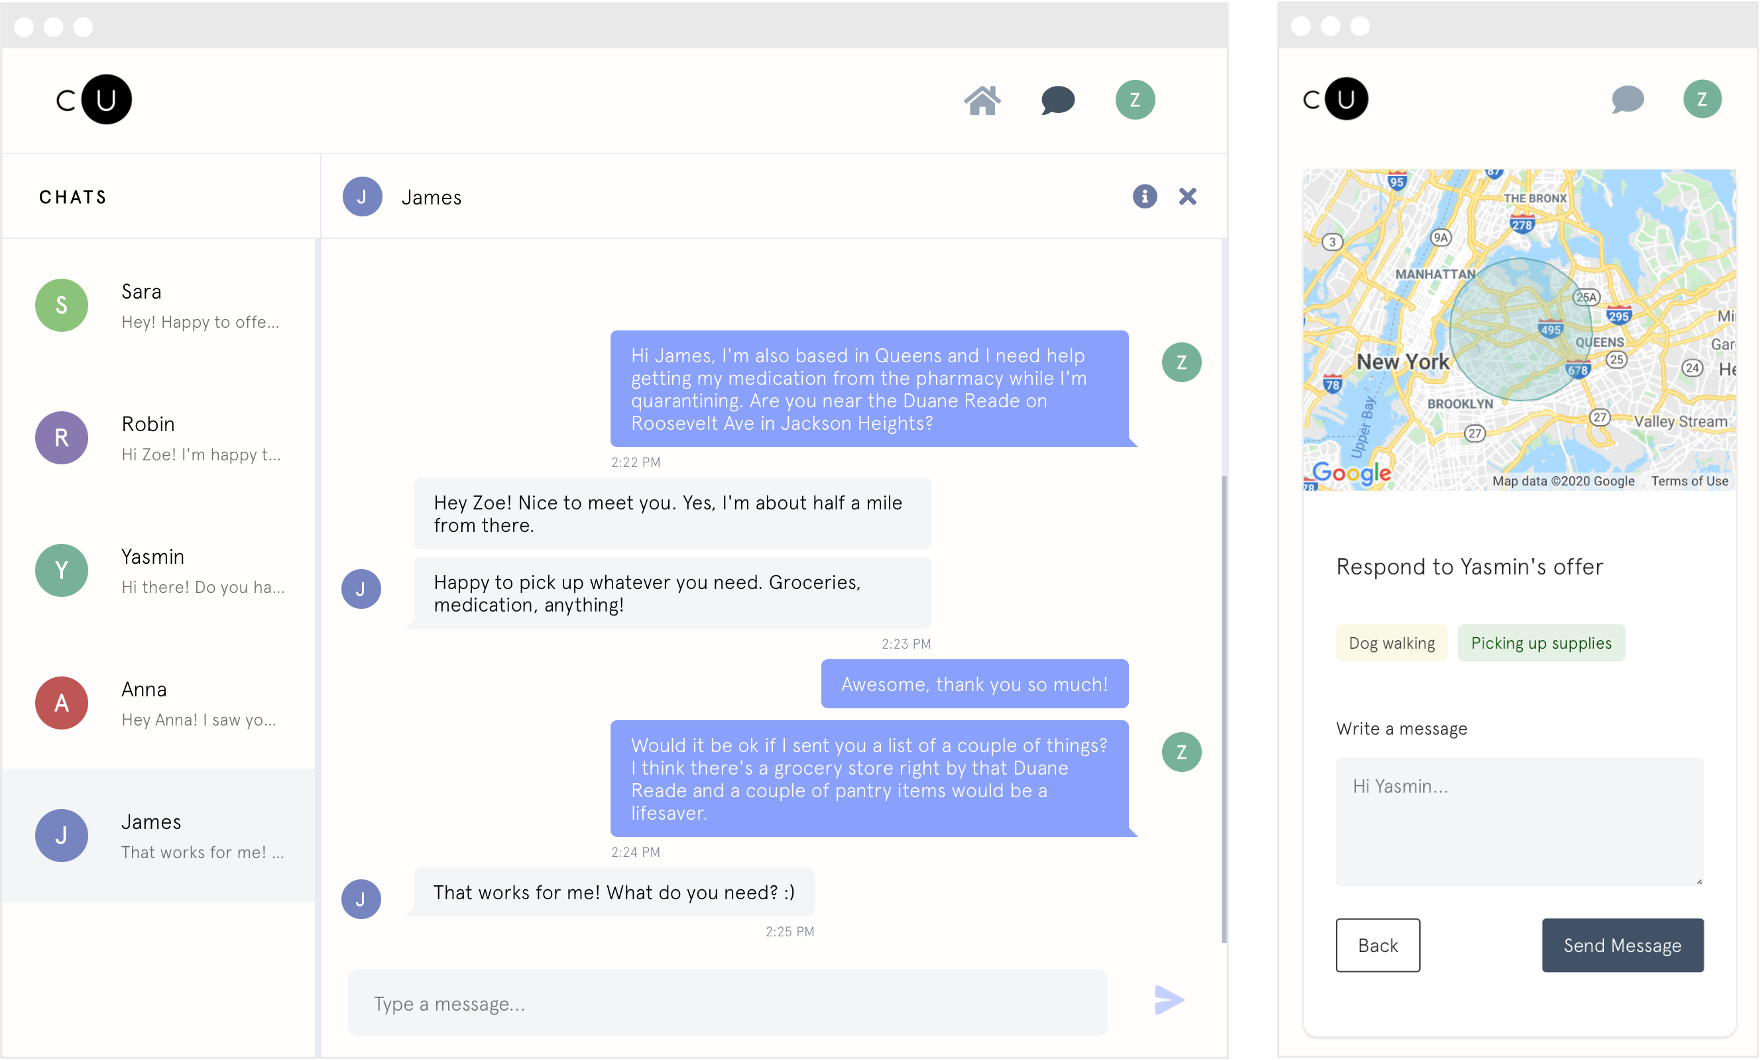
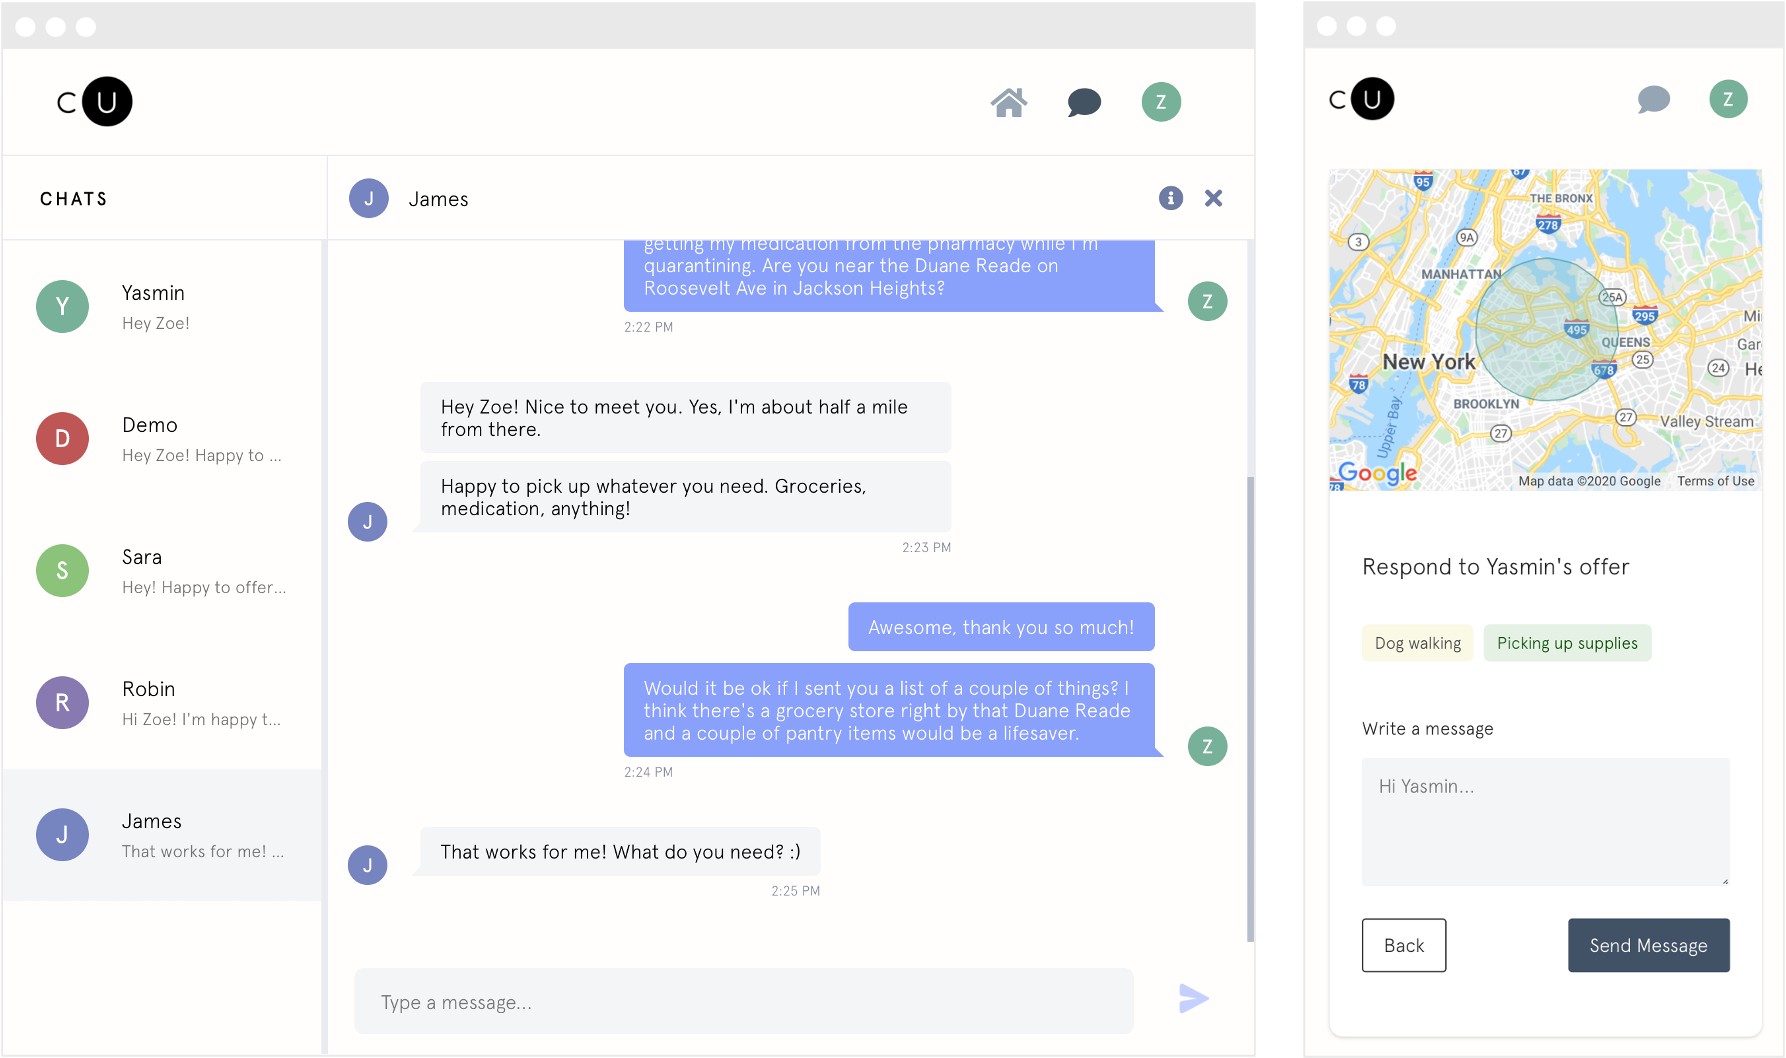
fixed profile picture placement in chat

diff --git a/src/components/MessageLayout/MessageLayout.module.css b/src/components/MessageLayout/MessageLayout.module.css
@@ -264,7 +264,6 @@
 
 .messageContainer .messagePic {
     order:1;
-    margin-top: 9px;
 }
 
 .messageContainer .data {
@@ -276,6 +275,7 @@
 .messageContainer .time {
     font-size:.65em;
     margin-top:5px;
+    margin-bottom: 30px;
     text-align:right;
     color: #83889c;
 }
@@ -341,6 +341,8 @@
 
 .messagePic {
     flex-shrink: 0;
+    align-self: flex-end;
+    margin-bottom: 40px;
 }
 
 .messageContainer.right .data {
